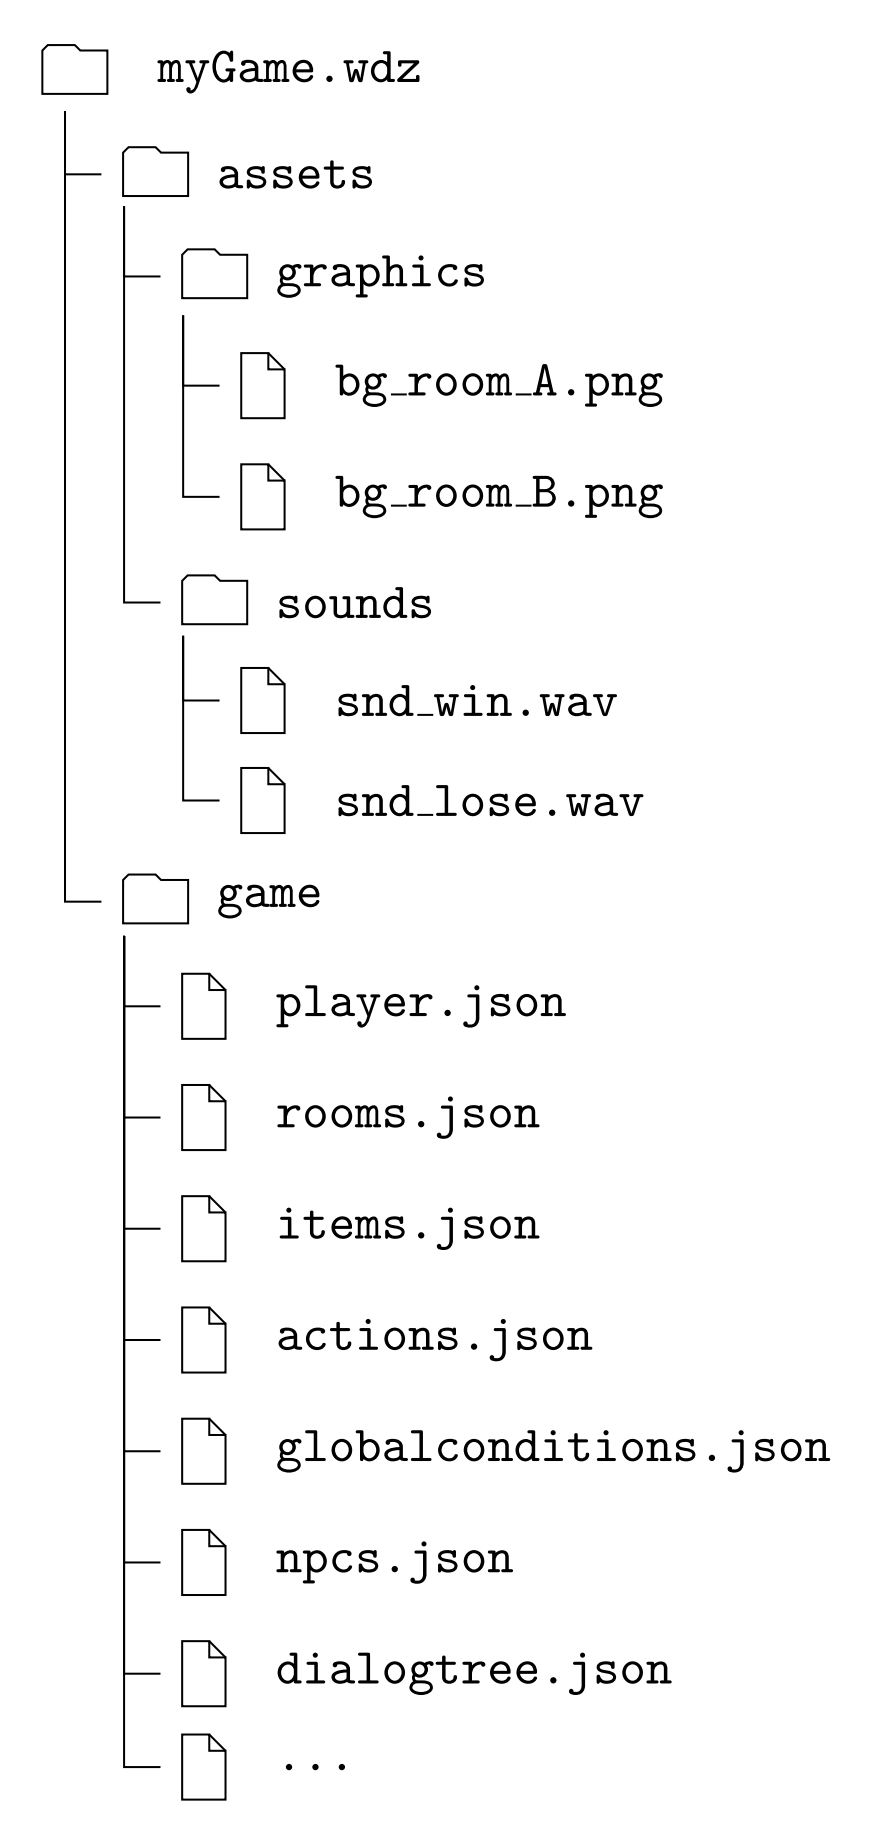
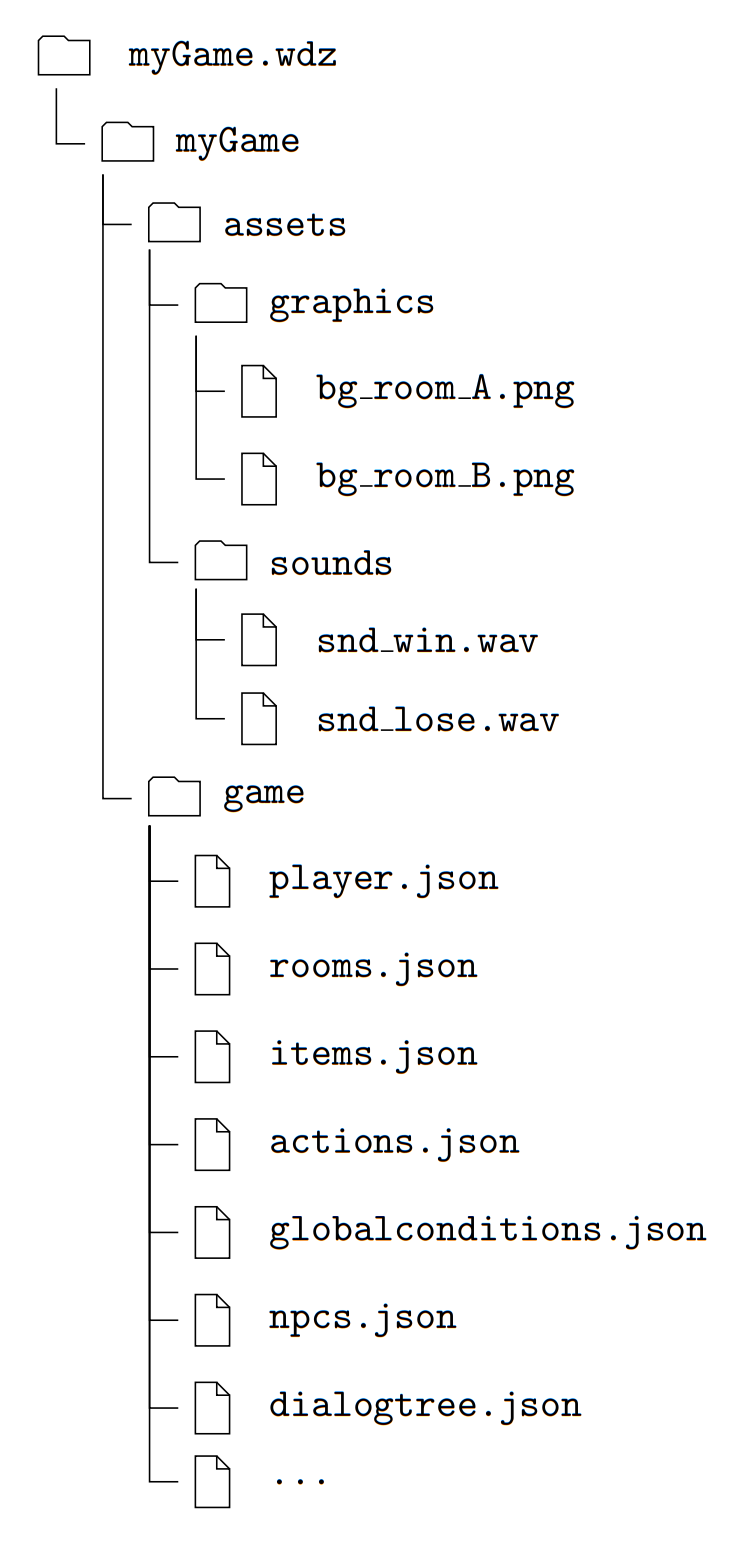
Updated and clarified structure img

diff --git a/docs/wdl++.md b/docs/wdl++.md
@@ -12,10 +12,12 @@ An overview of the directory structure:
 
 Note that the names and file extensions, e.g.`bg_room_A.png`  or `snd_lose.wav` are placeholders for now. The asset file formats to be used will depend on the implementations of the graphics and audio teams down the line.
 
-The top level contains two subdirectories:
+The game folder contains two subdirectories:
 
 - `assets` contains subdirectories which contain multimedia assets for the game.
 - `game` contains JSON objects that define objects of various types in the game.
+
+Note that the game folder is then wrapped in the zip archive. (in other words, the top level of the zip archive itself is not `assets/` and `game/`, but is `myGame/`, as shown in the diagram.)
 
 ### The `game` subdirectory
 
